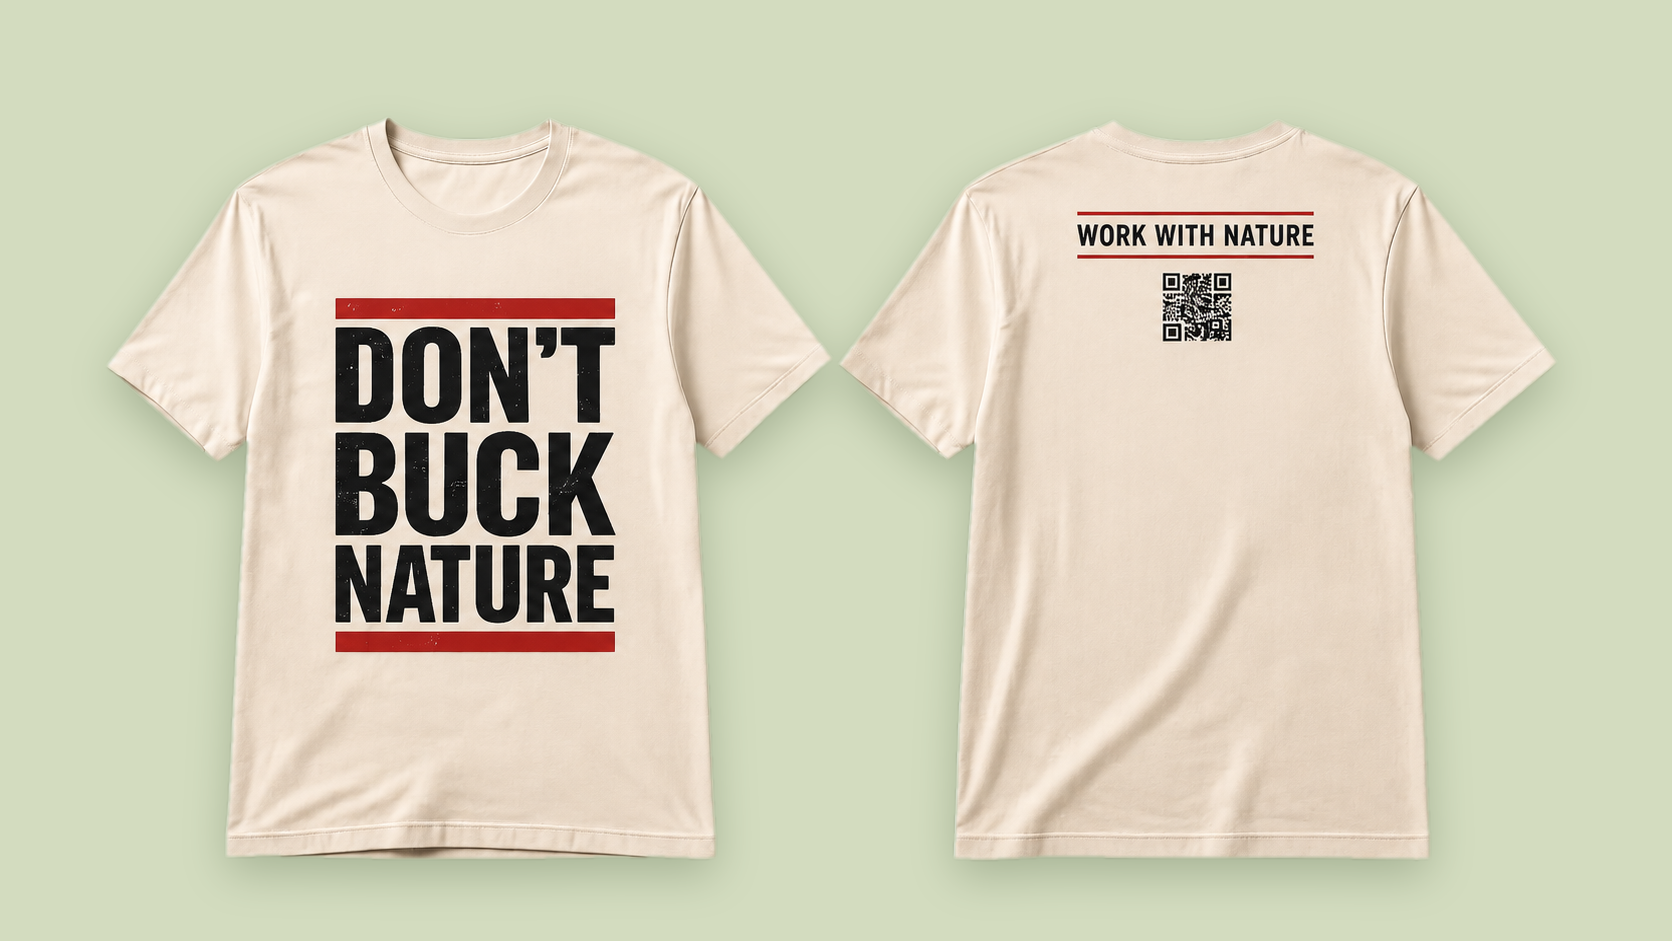
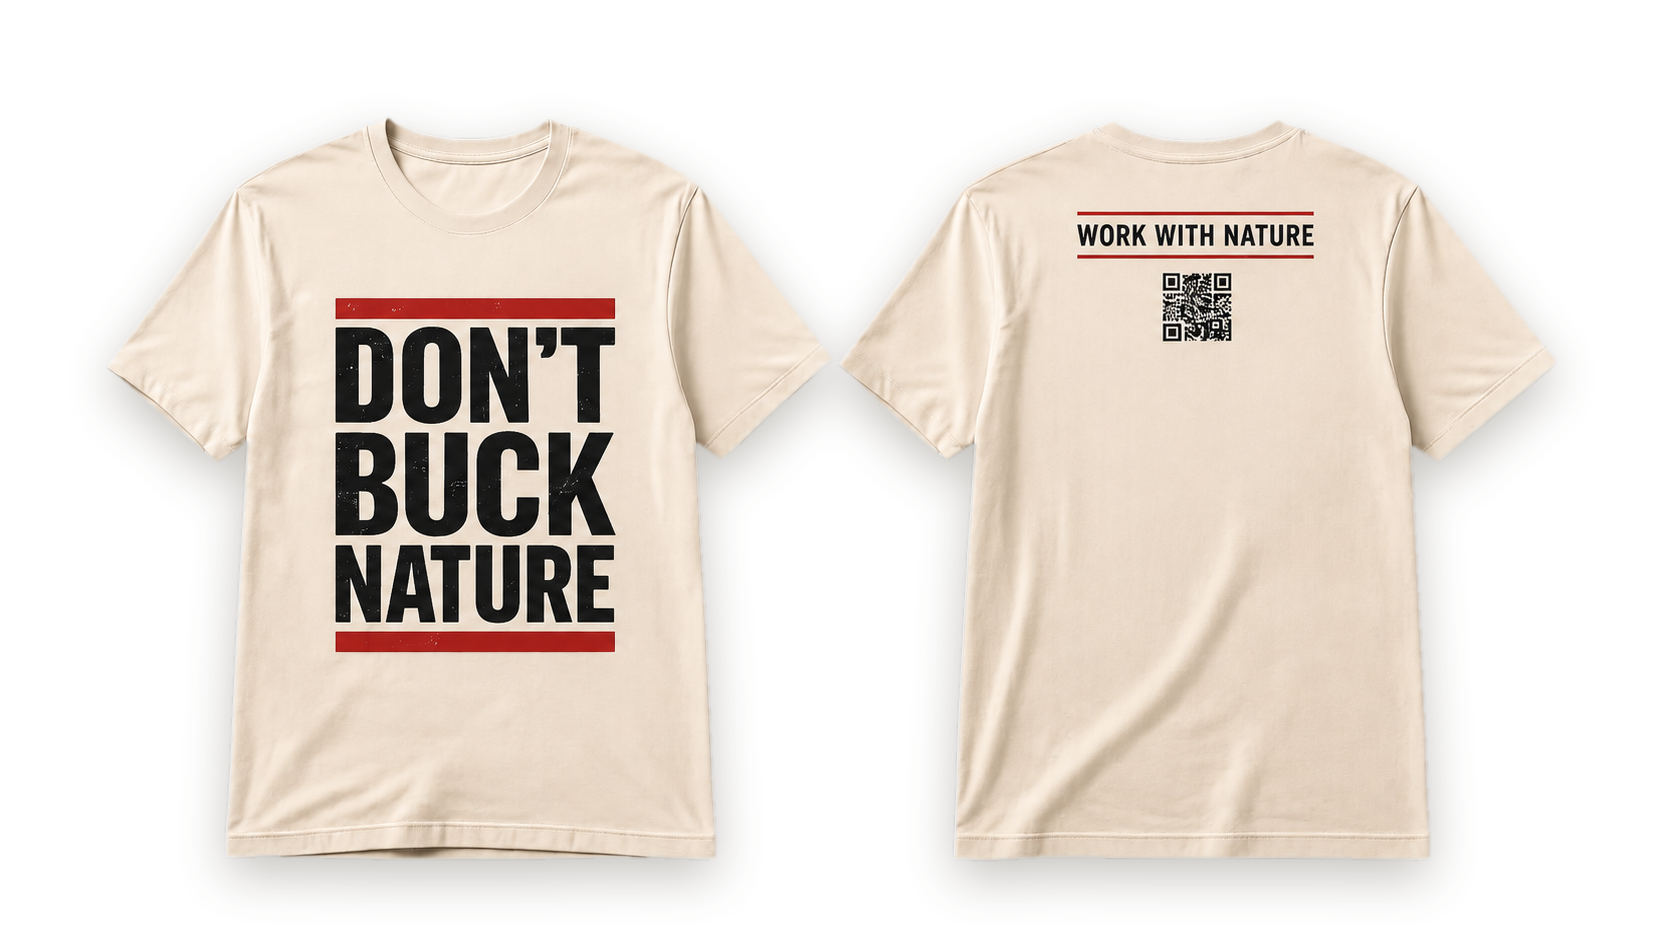
Don't Buck Nature: transparent shirt image that blends into the page
Claude-Session: https://claude.ai/code/session_01HFuvB8YGet79cTVff1Ki8o

diff --git a/style.css b/style.css
@@ -128,7 +128,7 @@ a.feature-card:hover{transform:translateY(-3px);box-shadow:var(--shadow-lift);co
 
 /* Don't Buck Nature */
 .campaign-hero{width:min(1180px,calc(100% - 40px));margin:0 auto;padding:clamp(44px,6vw,88px) 0;display:grid;grid-template-columns:.85fr 1.15fr;gap:clamp(28px,5vw,64px);align-items:center}
-.campaign-hero>img{width:100%;display:block;border-radius:calc(var(--radius) + 8px);border:1px solid var(--line);box-shadow:var(--shadow)}
+.campaign-hero>img{width:100%;display:block}
 .campaign-intro{color:var(--muted);font-size:1.08rem;margin-top:18px}
 .donation-section{display:grid;grid-template-columns:1.1fr .9fr;gap:clamp(28px,4vw,48px);align-items:start}
 .order-card{padding:clamp(26px,4vw,36px);background:var(--sage);border-color:var(--sage-deep);box-shadow:none}
